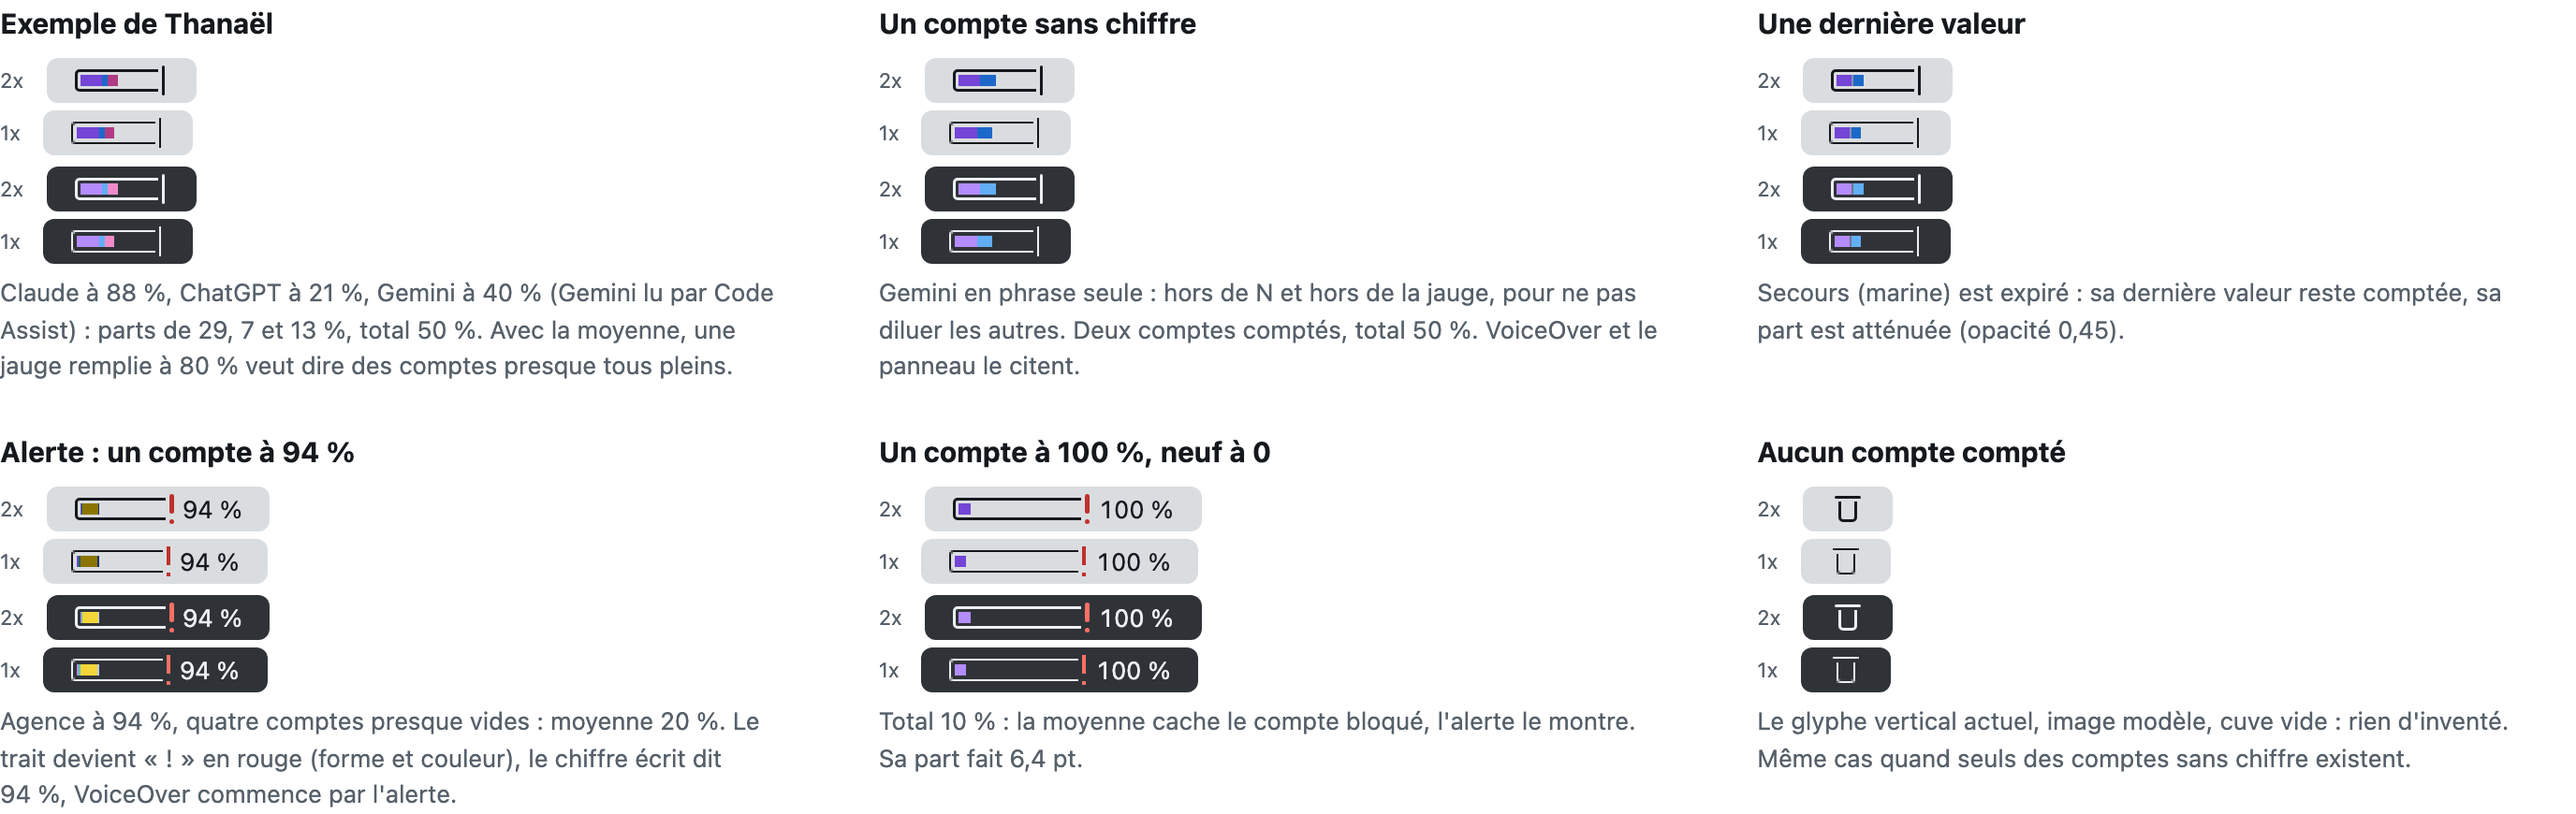
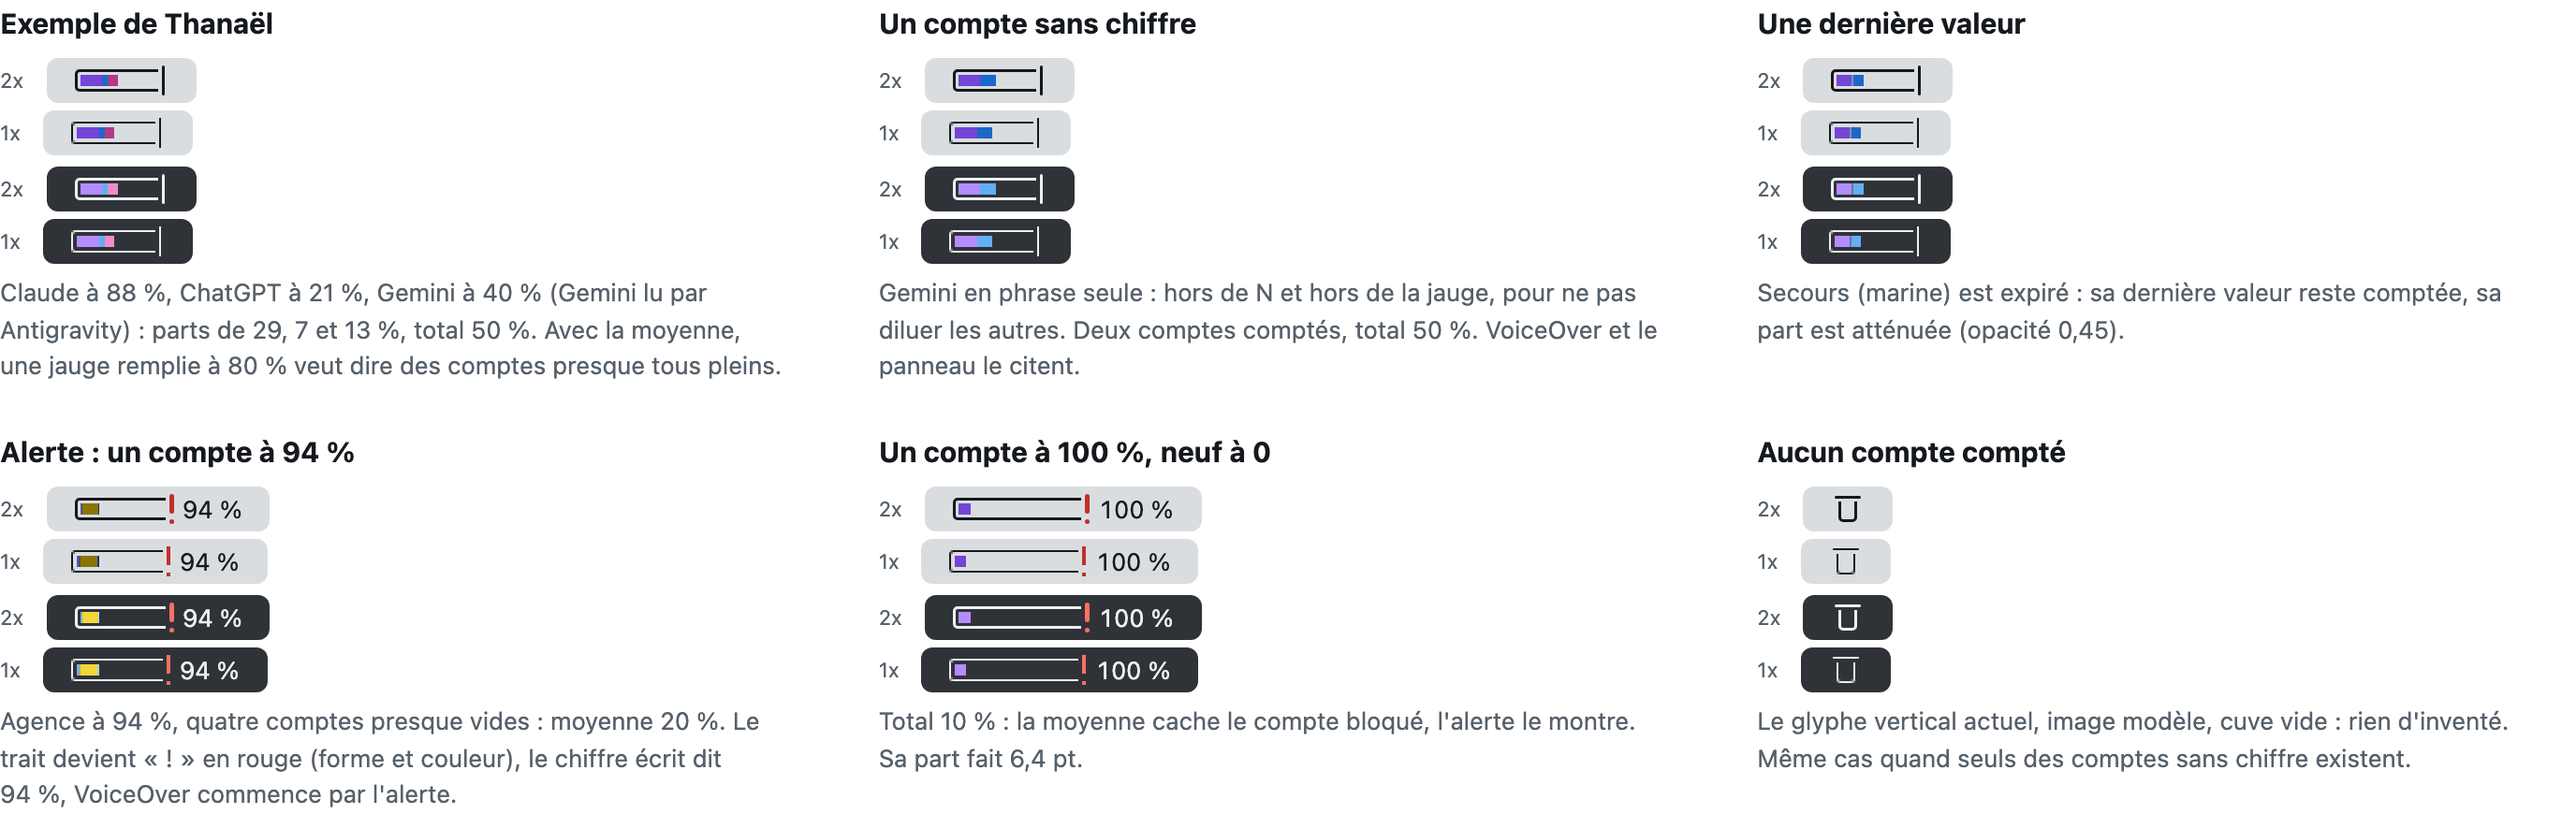
Brimline : planche des comptes, Gemini lu par Antigravity (fr-cas, en-cas refaites)

Changed region(s): [[0.0, 0.3724, 0.3125, 0.4655], [0.2812, 0.3414, 0.3125, 0.3724]]

diff --git a/design/planche-comptes.html b/design/planche-comptes.html
@@ -255,7 +255,7 @@ const T = {
     voGroup: n => `Couleur de ${n}`,
     cases: {
       one: 'Un compte', three: 'Trois comptes', ten: 'Dix comptes',
-      thanael: 'Exemple de Thanaël', thanaelCap: 'Claude à 88 %, ChatGPT à 21 %, Gemini à 40 % (Gemini lu par Code Assist) : parts de 29, 7 et 13 %, total 50 %. Avec la moyenne, une jauge remplie à 80 % veut dire des comptes presque tous pleins.',
+      thanael: 'Exemple de Thanaël', thanaelCap: 'Claude à 88 %, ChatGPT à 21 %, Gemini à 40 % (Gemini lu par Antigravity) : parts de 29, 7 et 13 %, total 50 %. Avec la moyenne, une jauge remplie à 80 % veut dire des comptes presque tous pleins.',
       nofig: 'Un compte sans chiffre', nofigCap: 'Gemini en phrase seule : hors de N et hors de la jauge, pour ne pas diluer les autres. Deux comptes comptés, total 50 %. VoiceOver et le panneau le citent.',
       stale: 'Une dernière valeur', staleCap: 'Secours (marine) est expiré : sa dernière valeur reste comptée, sa part est atténuée (opacité 0,45).',
       alert: 'Alerte : un compte à 94 %', alertCap: 'Agence à 94 %, quatre comptes presque vides : moyenne 20 %. Le trait devient « ! » en rouge (forme et couleur), le chiffre écrit dit 94 %, VoiceOver commence par l\'alerte.',
@@ -285,7 +285,7 @@ const T = {
     voGroup: n => `Color of ${n}`,
     cases: {
       one: 'One account', three: 'Three accounts', ten: 'Ten accounts',
-      thanael: 'Thanaël\'s example', thanaelCap: 'Claude at 88%, ChatGPT at 21%, Gemini at 40% (Gemini read through Code Assist): shares of 29, 7 and 13%, 50% in total. With the average, a gauge filled to 80% means nearly every account is full.',
+      thanael: 'Thanaël\'s example', thanaelCap: 'Claude at 88%, ChatGPT at 21%, Gemini at 40% (Gemini read through Antigravity): shares of 29, 7 and 13%, 50% in total. With the average, a gauge filled to 80% means nearly every account is full.',
       nofig: 'An account without a number', nofigCap: 'Gemini as a sentence only: left out of N and out of the gauge, so it does not dilute the others. Two counted accounts, 50% in total. VoiceOver and the panel mention it.',
       stale: 'A last known value', staleCap: 'Secours (navy) is expired: its last value still counts, its share is dimmed (opacity 0.45).',
       alert: 'Alert: one account at 94%', alertCap: 'Agence at 94%, four nearly empty accounts: 20% on average. The line turns into a red "!" (shape and color), the written number says 94%, VoiceOver starts with the alert.',
